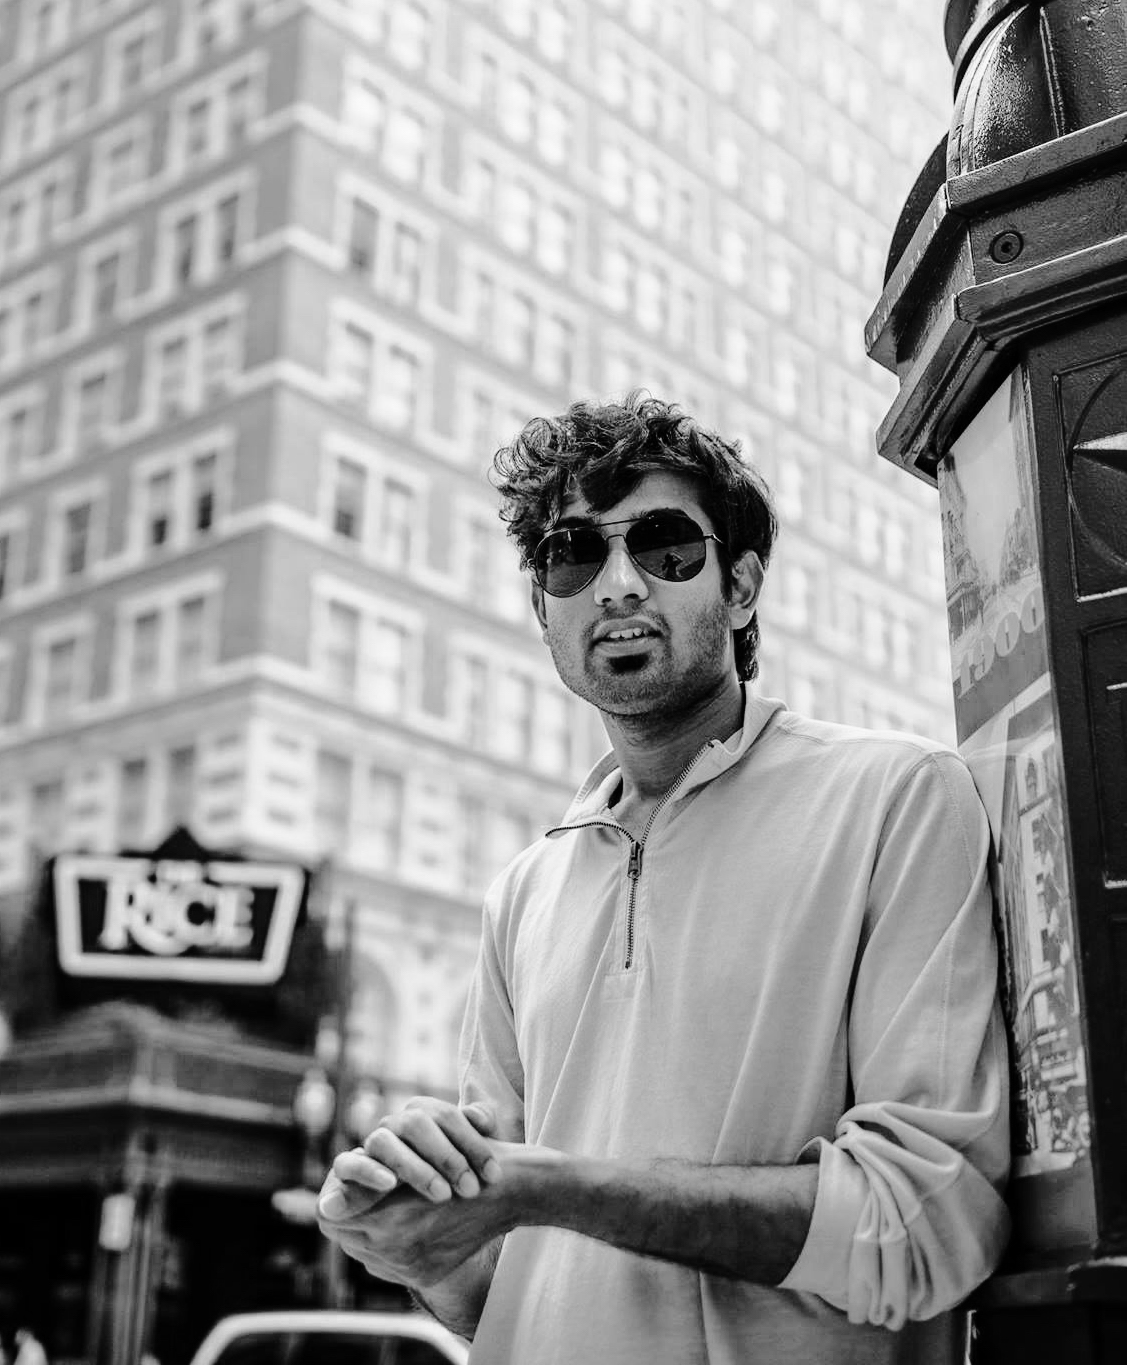
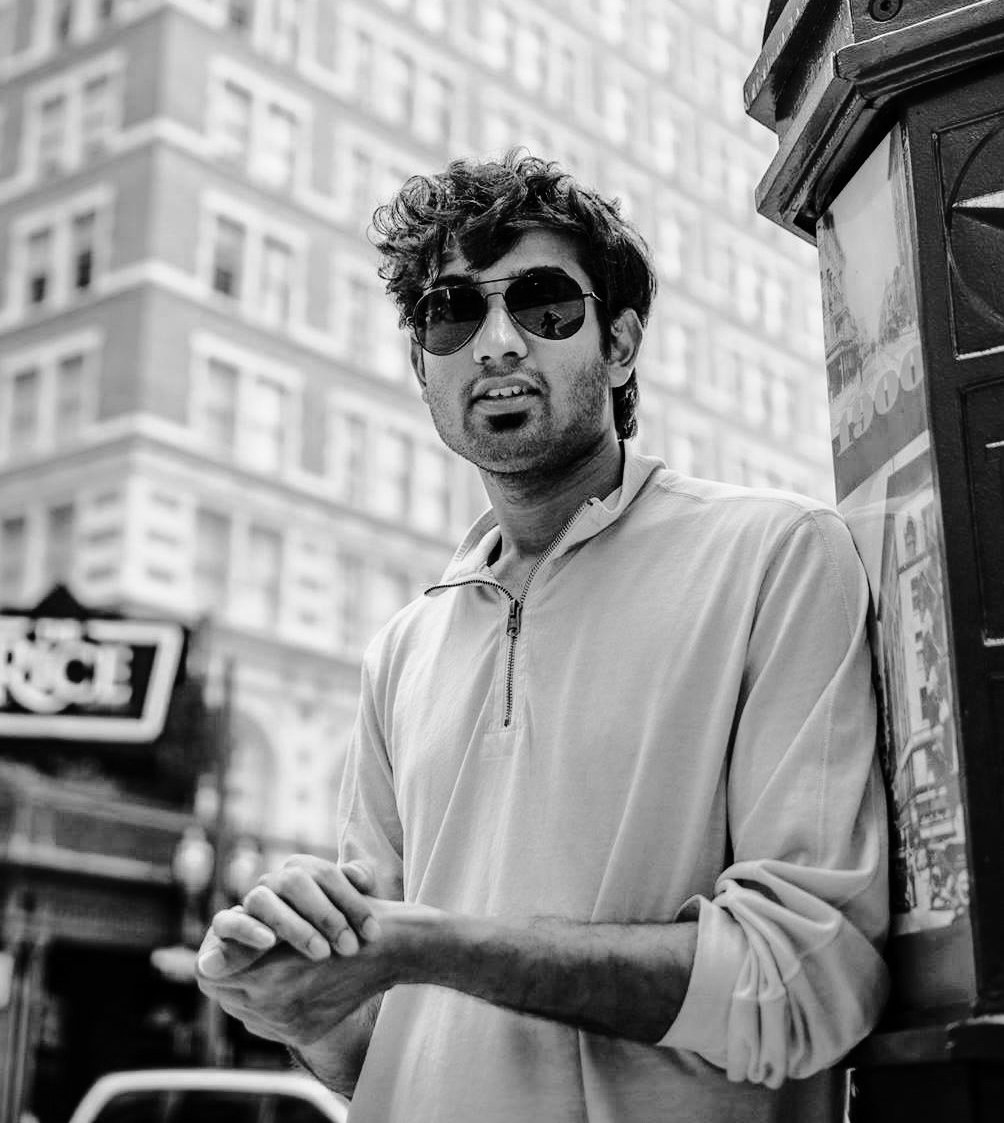
beautification

diff --git a/index.html b/index.html
@@ -9,7 +9,7 @@
 <style>
 :root{
   --bg:#ffffff; --fg:#1d1d1f; --muted:#6b6b70; --line:#efefef;
-  --accent:#2e2c7d; --chip:#f6f6f6; --me:#111; --conf:#c2410c;
+  --accent:#020087; --chip:#f6f6f6; --me:#111; --conf:#c2410c;
   --max:760px;
   color-scheme:light;
 }
@@ -51,7 +51,7 @@ a:hover{background-size:100% 1px}
 .spotlight.on{opacity:1}
 
 /* header */
-header{display:grid;grid-template-columns:1fr 220px;column-gap:38px;align-items:center}
+header{display:grid;grid-template-columns:1fr 190px;column-gap:38px;align-items:center}
 header > .intro{display:contents}
 header > .intro > *{grid-column:1}
 header .bio{grid-row:2}
@@ -68,7 +68,27 @@ header p{margin:0 0 14px}
   box-shadow:0 0 0 0 rgba(239,68,68,.6);animation:dot 1.6s ease-out infinite}
 @keyframes dot{0%{box-shadow:0 0 0 0 rgba(239,68,68,.6)}100%{box-shadow:0 0 0 9px rgba(239,68,68,0)}}
 .dark .ctl[aria-pressed="true"]{color:#06201d}
-.emails{font-size:1.1rem;font-weight:500;margin:0 0 14px}
+/* bio links: black, with the same smooth underline-on-hover as other links */
+header .bio a{color:var(--fg);font-weight:600}
+/* dark mode: bold bits of the bio & research blurb in a deep teal */
+.dark header .bio a,.dark .research-text b{color:#14b8a6}
+.dark .research-text u{text-decoration-color:color-mix(in srgb,#14b8a6 40%,transparent)}
+
+/* emails: scrambled until you hover / tap, then they decode */
+.emails{font-size:1.05rem;font-weight:500;margin:0 0 14px;display:flex;gap:14px;flex-wrap:wrap;align-items:center}
+.mail{font-family:ui-monospace,SFMono-Regular,Menlo,Consolas,monospace;font-size:.82rem;letter-spacing:.01em;
+  cursor:pointer;color:var(--muted);display:inline-flex;align-items:center;
+  padding:3px 10px;border:1px dashed var(--line);border-radius:999px;transition:color .3s,border-color .3s}
+.mail:hover{border-color:var(--muted)}
+.mail.done{color:var(--conf);border-style:solid;border-color:var(--conf);cursor:auto}
+.dark .mail.done{color:var(--accent);border-color:var(--accent)}
+/* one shared "locked envelope" icon for both addresses */
+.mail-ico{position:relative;font-size:1.6rem;line-height:1;display:inline-block}
+.mail-ico::after{content:"\1F512";position:absolute;right:-5px;bottom:-3px;font-size:.75rem}
+.emails.open .mail-ico{animation:pop .5s ease}
+.emails.open .mail-ico::after{content:"\1F513"}
+@keyframes pop{0%{transform:scale(.6) rotate(-15deg)}70%{transform:scale(1.2) rotate(6deg)}100%{transform:none}}
+.mail a{color:inherit}
 .social{display:flex;gap:18px;flex-wrap:wrap;align-items:center}
 .social a{background:none;display:grid;place-items:center;width:44px;height:44px;
   color:var(--fg);transition:color .2s,transform .2s}
@@ -87,6 +107,12 @@ u{text-decoration-color:var(--line);text-underline-offset:3px}
 .paper{display:grid;grid-template-columns:150px 1fr;gap:24px;padding:20px 0;border-bottom:1px solid var(--line)}
 .paper:last-child{border-bottom:0}
 .thumb{display:flex;align-items:flex-start;justify-content:center}
+.thumb img.pending{max-height:50px!important}
+/* dark mode: repaint the black question mark.  >>> change --qmark to recolor <<< */
+:root{--qmark:color-mix(in srgb,#025349,#fff);
[1 lines of base64/hex data omitted]
+.dark .thumb img.pending{object-position:-9999px 0;background:var(--qmark);
+  -webkit-mask:var(--qmask) center/contain no-repeat;mask:var(--qmask) center/contain no-repeat}
 .thumb img{max-height:130px;object-fit:contain;border-radius:8px;transition:transform .4s}
 .paper:hover .thumb img{transform:scale(1.05)}
 .ptitle{font-weight:600;font-size:1.02rem;line-height:1.4;display:block;margin-bottom:4px}
@@ -144,10 +170,10 @@ header{animation:rise .8s ease both}
   .wrap{padding-top:44px}
   header{grid-template-columns:1fr;row-gap:0}
   header .bio,header .photo{grid-row:auto}
-  header .photo{grid-column:1;order:-1;width:150px;margin:0 auto 20px;border-radius:50%}
+  header .photo{grid-column:1;order:-1;width:130px;margin:0 auto 20px;border-radius:50%}
   header h1{text-align:center}
   .social{justify-content:center}
-  .emails{text-align:center}
+  .emails{justify-content:center}
   .seeking-wrap{text-align:center}
   .paper{grid-template-columns:1fr;gap:12px}
   .thumb{justify-content:flex-start}
@@ -180,14 +206,15 @@ header{animation:rise .8s ease both}
     <div class="intro">
       <h1>Priyank Pathak</h1>
       <p class="bio">
-        I am a final year Computer Vision Ph.D. Candidate <em>(Jan'23 - May'27)</em> at University of Central Florida under <a href="https://www.cs.ucf.edu/person/yogeshrawat/">Prof. Yogesh S. Rawat</a>.
-        My research focuses on Interpretable / Explainable AI, Re-Identification (ReID), and Targetted Adaptation. 
-        Prior to UCF, I earned my Master’s in Computer Science from <a href="https://cims.nyu.edu/dynamic/">New York University (NYU) Courant</a>, where I completed my thesis under the guidance of <a href="https://cims.nyu.edu/people/profiles/FERGUS_Rob.html">Prof. Rob Fergus</a>.
-        I hold Dual Bachelor of Technology (B.Tech) degrees in Electrical Engineering and Computer Science from the <a href="https://www.iitk.ac.in/">Indian Institute of Technology (IIT) Kanpur</a>.
+        I am a Computer Vision Ph.D. Candidate at the <i>University of Central Florida</i> (Jan'23 - May'27), advised by <a href="https://www.cs.ucf.edu/person/yogeshrawat/">Prof. Yogesh S. Rawat</a>.
+        My research focuses on Explainable AI, Re-Identification (ReID), and Targeted Adaptation. 
+        Previously, I earned an M.S. in Computer Science from <i>NYU Courant</i>, advised by <a href="https://cims.nyu.edu/people/profiles/FERGUS_Rob.html">Prof. Rob Fergus</a>, and Dual B.Tech. degrees in Electrical Engineering and Computer Science from <i>IIT Kanpur</i>.
       </p>
       <div class="seeking-wrap"><span class="seeking">Seeking Full-time roles starting January</span></div>
       <p class="emails">
-        <a href="mailto:priyank@ucf.edu">priyank@ucf.edu</a> &nbsp;/&nbsp; <a href="mailto:pp1953@nyu.edu">pp1953@nyu.edu</a>
+        <span class="mail-ico" aria-hidden="true">&#x1F4E7;</span>
+        <span class="mail" data-u="knayirp" data-d="ude.fcu" tabindex="0" role="button" title="Hover or tap to decode" aria-label="Reveal UCF email"></span>
+        <span class="mail" data-u="3591pp" data-d="ude.uyn" tabindex="0" role="button" title="Hover or tap to decode" aria-label="Reveal NYU email"></span>
       </p>
       <nav class="social">
         <a href="https://drive.google.com/file/d/1cjJhc-2hklZehBBnoUpoOQSsXxNibSfm/view?usp=sharing" target="_blank" rel="noopener" title="Resume"><span class="ico" role="img" aria-label="Resume" style="--src:url(html_pages/data/resume.png)"></span></a>
@@ -206,18 +233,10 @@ header{animation:rise .8s ease both}
   <section class="fade-in">
     <h2 class="sec">Research</h2>
     <p class="research-text">
-      
-      <!-- I primarily focus on <b><u>Targetted adaptation </u></b> while preserving Zero Shot properties of <b><u>VLMs (transformers) </u></b> with a specific emphasis on <b><u>object detection</u></b>. -->
-      <!-- I also have substantial experience in <b><u>interpretable and explainable AI</u></b> and <b><u>Visualization</u></b>, enabling easy to understand insights into models. -->
-      <!-- In parallel, I have been actively working on <b><u>Person Re Identification (ReID)</u></b> for the past seven years, which was the core of my Master’s thesis and Amazon internship as well. -->
-    
-    
     My research centers on <b><u>efficient training</u></b> of computer vision models, with a strong emphasis on <b><u>improving robustness</u></b> to real-world noise, such as fog, rain, and snow in autonomous driving. 
     I primarily focus on <b><u>Targetted adaptation</u></b> while preserving the zero-shot properties of <b><u>VLMs (transformers)</u></b>, with a specific emphasis on <b><u>object detection</u></b>. 
     I also have substantial experience in <b><u>interpretable and explainable AI</u></b> and Visualization, enabling easy-to-understand insights into models (opening black box). 
     In parallel, I have been actively working on <b><u>Re Identification (ReID)</u></b> for the past seven years, which was the core of my Master’s thesis and Amazon internship.
-    
-    
     </p>
   </section>
 
@@ -560,6 +579,53 @@ function reveal_name(el) {
   }, 20);
   el.dataset.animationInterval = t;
 }
+
+// unpublished papers: if the venue line says "Under Review" or "Preprint",
+// show a question mark instead of the teaser. Change the status to a venue
+// and the real image comes back automatically.
+document.querySelectorAll(".paper").forEach(function (p) {
+  var meta = p.querySelector(".meta"), img = p.querySelector(".thumb img");
+  if (meta && img && /under\s*review|preprint/i.test(meta.textContent)) {
+    img.src = "images/question_mark.png";
+    img.classList.add("pending");
+  }
+});
+
+// email decoder: addresses are stored reversed (keeps scrapers off) and
+// shown scrambled until hovered / focused / tapped, then decoded char by char
+(function () {
+  var glyphs = "!<>-_\\/[]{}=+*^?#$%&01";
+  function rnd() { return glyphs[Math.floor(Math.random() * glyphs.length)]; }
+  document.querySelectorAll(".mail").forEach(function (el) {
+    var rev = function (x) { return x.split("").reverse().join(""); };
+    var addr = rev(el.dataset.u) + "@" + rev(el.dataset.d);
+    var scrambled = addr.replace(/[^@.]/g, rnd);
+    el.textContent = scrambled;
+    var started = false;
+    function decode() {
+      if (started) return; started = true;
+      var i = 0;
+      var t = setInterval(function () {
+        var out = addr.slice(0, i);
+        for (var k = i; k < addr.length; k++) out += /[@.]/.test(addr[k]) ? addr[k] : rnd();
+        el.textContent = out;
+        if (i++ >= addr.length) {
+          clearInterval(t);
+          el.textContent = "";
+          var a = document.createElement("a");
+          a.href = "mailto:" + addr; a.textContent = addr;
+          el.appendChild(a);
+          el.classList.add("done");
+          el.parentNode.classList.add("open");
+          el.removeAttribute("role"); el.removeAttribute("tabindex"); el.removeAttribute("title");
+        }
+      }, 45);
+    }
+    el.addEventListener("mouseenter", decode);
+    el.addEventListener("focus", decode);
+    el.addEventListener("click", decode);
+  });
+})();
 
 // spotlight torch (optional, follows mouse / finger)
 var spot = document.getElementById("spotlight");
